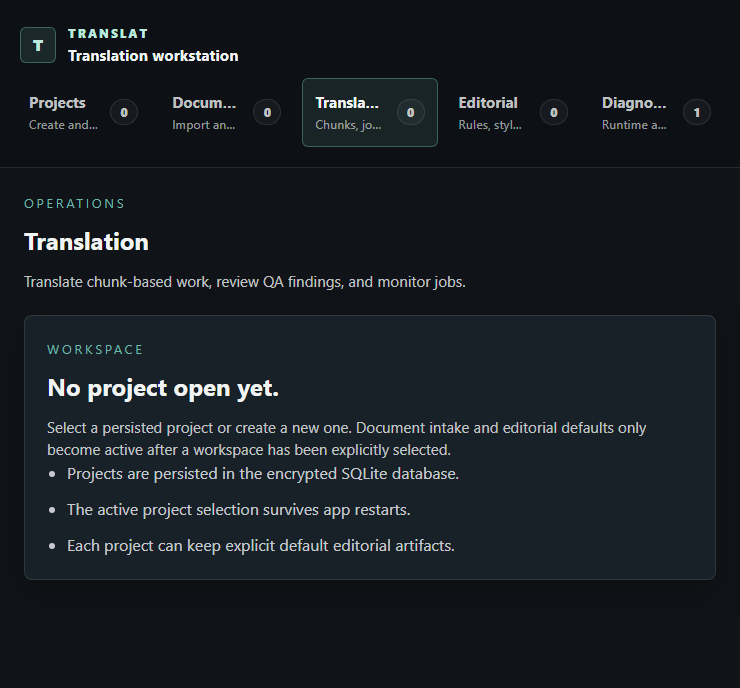
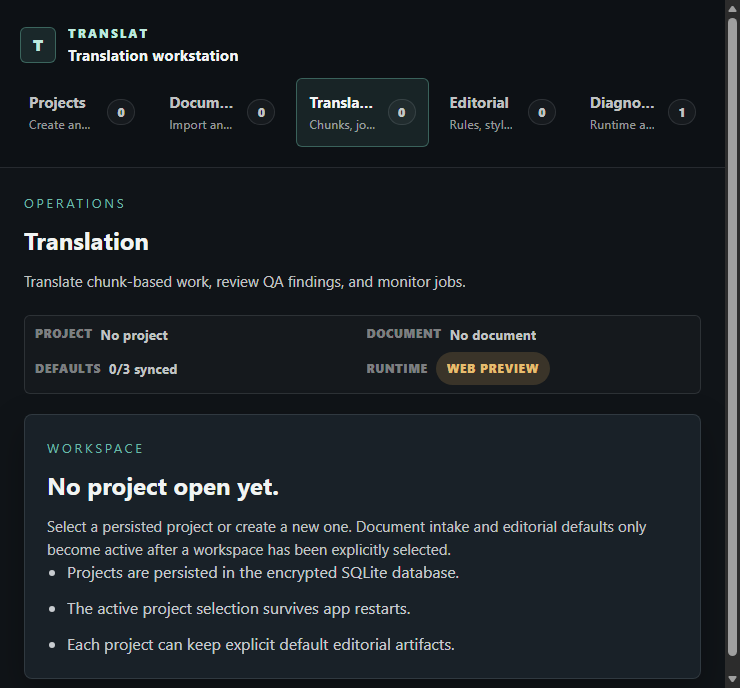
Handle browser runtime unavailable state

diff --git a/src/frontend/app/AppShell.tsx b/src/frontend/app/AppShell.tsx
@@ -17,6 +17,10 @@ import { useProjectDocuments } from "../hooks/useProjectDocuments";
 import { useProjectsWorkspace } from "../hooks/useProjectsWorkspace";
 import { useRuleSetsWorkspace } from "../hooks/useRuleSetsWorkspace";
 import { useStyleProfilesWorkspace } from "../hooks/useStyleProfilesWorkspace";
+import {
+  DESKTOP_RUNTIME_UNAVAILABLE_CODE,
+  isDesktopRuntimeAvailable,
+} from "../lib/desktop";
 
 type BadgeTone = "neutral" | "info" | "success" | "warning" | "danger";
 type ShellView =
@@ -346,6 +350,23 @@ export function AppShell() {
     activeProjectDefaultStyleProfile,
     activeProjectDefaultRuleSet,
   ].filter(Boolean).length;
+  const isDesktopRuntimeUnavailable =
+    !isDesktopRuntimeAvailable() ||
+    healthcheckError?.code === DESKTOP_RUNTIME_UNAVAILABLE_CODE;
+  const runtimeContextTone: BadgeTone = isDesktopRuntimeUnavailable
+    ? "warning"
+    : healthcheck
+      ? "success"
+      : isLoadingHealthcheck
+        ? "info"
+        : "danger";
+  const runtimeContextLabel = isDesktopRuntimeUnavailable
+    ? "Web preview"
+    : healthcheck
+      ? "Desktop ready"
+      : isLoadingHealthcheck
+        ? "Checking"
+        : "Runtime issue";
   const navigationItems: NavigationItem[] = [
     {
       count: projects.length,
@@ -424,6 +445,33 @@ export function AppShell() {
             />
           </div>
 
+          <section
+            aria-label="Workspace context"
+            className="app-shell__operational-strip"
+          >
+            <div>
+              <span>Project</span>
+              <strong>{activeProject?.name ?? "No project"}</strong>
+            </div>
+            <div>
+              <span>Document</span>
+              <strong>{activeDocument?.name ?? "No document"}</strong>
+            </div>
+            <div>
+              <span>Defaults</span>
+              <strong>
+                {activeDefaultsCount}/3
+                {hasUnsavedProjectDefaults ? " unsaved" : " synced"}
+              </strong>
+            </div>
+            <div>
+              <span>Runtime</span>
+              <StatusBadge tone={runtimeContextTone} size="sm">
+                {runtimeContextLabel}
+              </StatusBadge>
+            </div>
+          </section>
+
           <div
             className="app-shell__view app-shell__view--projects"
             hidden={activeView !== "projects"}
@@ -432,6 +480,7 @@ export function AppShell() {
               <ProjectComposer
                 error={projectError}
                 isCreating={isCreating}
+                isRuntimeUnavailable={isDesktopRuntimeUnavailable}
                 onSubmit={handleSubmitProject}
               />
 

diff --git a/src/frontend/components/ProjectComposer.tsx b/src/frontend/components/ProjectComposer.tsx
@@ -7,16 +7,20 @@ import { PanelMessage } from "./ui/PanelMessage";
 interface ProjectComposerProps {
   error: DesktopCommandError | null;
   isCreating: boolean;
+  isRuntimeUnavailable?: boolean;
   onSubmit: (input: { description?: string; name: string }) => Promise<boolean>;
 }
 
 export function ProjectComposer({
   error,
   isCreating,
+  isRuntimeUnavailable = false,
   onSubmit,
 }: ProjectComposerProps) {
   const [description, setDescription] = useState("");
   const [name, setName] = useState("");
+  const isSubmitDisabled = isCreating || isRuntimeUnavailable;
+  const displayedError = isRuntimeUnavailable ? null : error;
 
   async function handleSubmit(event: React.FormEvent<HTMLFormElement>) {
     event.preventDefault();
@@ -73,23 +77,36 @@ export function ProjectComposer({
 
         <div className="project-form__footer">
           <ActionButton
-            disabled={isCreating}
+            disabled={isSubmitDisabled}
             mobileFullWidth
             size="md"
             type="submit"
             variant="primary"
           >
-            {isCreating ? "Creating project..." : "Create project"}
+            {isRuntimeUnavailable
+              ? "Desktop app required"
+              : isCreating
+                ? "Creating project..."
+                : "Create project"}
           </ActionButton>
 
           <span className="project-form__hint">
-            The new project is opened immediately after persistence.
+            {isRuntimeUnavailable
+              ? "Persistence commands run in the desktop app."
+              : "The new project is opened immediately after persistence."}
           </span>
         </div>
 
-        {error ? (
+        {isRuntimeUnavailable ? (
+          <PanelMessage tone="warning" title="Browser preview mode">
+            This preview cannot create persisted projects because the Tauri
+            desktop bridge is not available.
+          </PanelMessage>
+        ) : null}
+
+        {displayedError ? (
           <PanelMessage role="alert" tone="danger">
-            {error.message}
+            {displayedError.message}
           </PanelMessage>
         ) : null}
       </form>

diff --git a/src/frontend/styles.css b/src/frontend/styles.css
@@ -309,6 +309,40 @@ select {
   padding-bottom: 2px;
 }
 
+.app-shell__operational-strip {
+  display: grid;
+  grid-template-columns: repeat(4, minmax(0, 1fr));
+  gap: 8px;
+  padding: 8px 10px;
+  border: 1px solid var(--color-border-default);
+  border-radius: var(--radius-md);
+  background: rgba(255, 255, 255, 0.025);
+}
+
+.app-shell__operational-strip div {
+  display: flex;
+  min-width: 0;
+  gap: 8px;
+  align-items: center;
+}
+
+.app-shell__operational-strip span {
+  flex: 0 0 auto;
+  color: var(--color-text-subtle);
+  font-size: 0.72rem;
+  font-weight: 800;
+  letter-spacing: 0.08em;
+  text-transform: uppercase;
+}
+
+.app-shell__operational-strip strong {
+  overflow: hidden;
+  color: var(--color-text-secondary);
+  font-size: 0.84rem;
+  text-overflow: ellipsis;
+  white-space: nowrap;
+}
+
 .app-shell__view {
   display: grid;
   gap: 20px;
@@ -1600,14 +1634,27 @@ select {
   .app-shell__metric-grid {
     grid-template-columns: repeat(2, minmax(0, 1fr));
   }
+
+  .app-shell__operational-strip {
+    grid-template-columns: repeat(2, minmax(0, 1fr));
+  }
 }
 
 @media (max-width: 640px) {
+  .app-shell,
+  .app-shell__nav,
+  .app-shell__main,
+  .app-shell__content {
+    max-width: 100vw;
+    overflow-x: hidden;
+  }
+
   .app-shell__nav {
     padding: 16px 12px;
   }
 
   .app-shell__nav-list,
+  .app-shell__operational-strip,
   .app-shell__metric-grid {
     grid-template-columns: 1fr;
   }
@@ -1617,8 +1664,8 @@ select {
   }
 
   .app-shell__content {
+    width: 100%;
     margin: 0;
-    max-width: 390px;
   }
 
   .surface-card {
@@ -1648,7 +1695,13 @@ select {
 
   .app-shell__view-header .panel-header__copy,
   .app-shell__view-header .panel-header__description {
-    max-width: calc(100vw - 32px);
+    width: 100%;
+    max-width: 100%;
+    white-space: normal;
+  }
+
+  .app-shell__operational-strip div {
+    flex-wrap: wrap;
   }
 
   .panel-header__aside,

diff --git a/src/frontend/lib/desktop.ts b/src/frontend/lib/desktop.ts
@@ -87,6 +87,25 @@ export class DesktopCommandError extends Error {
   }
 }
 
+export const DESKTOP_RUNTIME_UNAVAILABLE_CODE = "DESKTOP_RUNTIME_UNAVAILABLE";
+
+declare global {
+  interface Window {
+    __TAURI__?: {
+      core?: {
+        invoke?: unknown;
+      };
+    };
+  }
+}
+
+export function isDesktopRuntimeAvailable() {
+  return (
+    typeof window !== "undefined" &&
+    typeof window.__TAURI__?.core?.invoke === "function"
+  );
+}
+
 function isDesktopCommandErrorPayload(
   value: unknown,
 ): value is DesktopCommandErrorPayload {
@@ -127,6 +146,14 @@ export async function invokeDesktopCommand<TResponse>(
   command: DesktopCommandName,
   args?: Record<string, unknown>,
 ) {
+  if (!isDesktopRuntimeAvailable()) {
+    throw new DesktopCommandError(command, {
+      code: DESKTOP_RUNTIME_UNAVAILABLE_CODE,
+      message:
+        "Desktop runtime unavailable in this browser preview. Open the Tauri desktop app to use persisted project and document commands.",
+    });
+  }
+
   try {
     return await invoke<TResponse>(command, args);
   } catch (caughtError) {

diff --git a/docs/product/TR-34-visual-validation.md b/docs/product/TR-34-visual-validation.md
@@ -12,6 +12,7 @@ Validation date: 2026-04-21.
 - Desktop capture: `docs/product/assets/TR-34/browser-desktop.png`
 - Intermediate responsive Documents capture: `docs/product/assets/TR-34/browser-tablet.png`
 - Intermediate responsive Translation capture: `docs/product/assets/TR-34/browser-tablet-translation.png`
+- Wide phone capture: `docs/product/assets/TR-34/browser-phone-wide.png`
 - Mobile capture: `docs/product/assets/TR-34/browser-mobile.png`
 - Browser mode: Vite web preview, with Tauri command bridge unavailable.
 
@@ -20,6 +21,8 @@ Validation date: 2026-04-21.
 ![TR-34 browser intermediate responsive](assets/TR-34/browser-tablet.png)
 
 ![TR-34 browser intermediate responsive translation](assets/TR-34/browser-tablet-translation.png)
+
+![TR-34 browser wide phone](assets/TR-34/browser-phone-wide.png)
 
 ![TR-34 browser mobile](assets/TR-34/browser-mobile.png)
 
@@ -34,10 +37,10 @@ Validation date: 2026-04-21.
 | `npm run build` | Blocked | `tauri build` panics in `tauri-cli` at `crates\tauri-cli\src\interface\rust.rs:1149:14` after the same toolchain issue. |
 
 ## Browser Runtime Findings
-The browser preview renders the redesigned shell without a blank screen at desktop and mobile sizes. Because this is a web preview, desktop commands fail without the Tauri bridge; the first screen still surfaces a raw command failure inside the project form area. That is a browser-runtime limitation already visible in TR-29 and not evidence of the native command path.
+The browser preview renders the redesigned shell without a blank screen at desktop and mobile sizes. Because this is a web preview, desktop commands cannot run without the Tauri bridge; persistence actions are disabled and surfaced as explicit browser-preview runtime states rather than raw command failures.
 
 Desktop viewport:
-- Left navigation, project composer, and active workspace overview are visible in the first viewport.
+- Left navigation, compact operational context, project composer, and active workspace overview are visible in the first viewport.
 - Primary hierarchy is readable: `Projects` route, project creation, active workspace summary.
 - No obvious text overlap in the captured viewport.
 - The page scrolls vertically; lower form error content is partly below the first viewport.
@@ -47,6 +50,10 @@ Mobile viewport:
 - Brand, nav entries, view title, and project creation flow remain readable.
 - No obvious horizontal clipping in the captured viewport.
 - The content requires vertical scrolling, which is expected for the current shell structure.
+
+Wide phone viewport:
+- The shell content uses the full available 400-449px range instead of clamping to a narrow fixed column.
+- Compact operational context keeps runtime availability visible in the primary shell.
 
 Intermediate responsive viewport:
 - Documents and Translation navigation use a compact horizontal row without an elastic empty area below the tabs.
@@ -73,21 +80,20 @@ Intermediate responsive viewport:
 ## Accessibility And Layout Review
 - The shell uses real buttons for navigation, project actions, document rows, chunk rows, and job/QA actions.
 - Disabled operational states are explicit for non-segmented documents, missing chunks, inactive jobs, and unavailable export.
+- Browser preview disables persistence commands when the Tauri desktop bridge is unavailable and shows a clear runtime message.
 - Semantic status colors are restrained and consistent with TR-31 roles: info for progress, success for ready/completed, warning for blocked/incomplete, danger for incidents.
-- Dense workstation layout is preserved on desktop through left navigation and the three-zone Translation Workspace.
+- Dense workstation layout is preserved on desktop through left navigation, compact operational context, and the three-zone Translation Workspace.
 - Mobile layout stacks major regions and avoids horizontal overflow in the captured state.
 
 ## Residual Risks
 - Browser-only validation cannot exercise persisted projects, imports, segmentation, jobs, QA, or export end to end until the Tauri desktop toolchain is repaired.
 - No automated visual regression suite exists for the Release 08 shell or Translation Workspace states.
 - Representative operational states were validated by component/code review rather than seeded runtime data.
-- The browser preview still exposes raw Tauri-bridge command failures in web mode.
 
 ## Follow-ups
 1. Repair the local Rust/Tauri toolchain so `check:desktop`, `tauri dev`, and `tauri build` can validate native command behavior.
 2. Add a lightweight visual-state harness or mocked Tauri adapter for browser validation of seeded project/document/chunk/job/QA/export states.
 3. Add Playwright or equivalent visual smoke tests once the harness exists.
-4. Replace raw browser-only Tauri bridge failures with a clearer web-preview runtime message.
 
 ## Release 08 Decision
-Release 08 visual validation is sufficient for the current repository phase, with the explicit limitation that native Tauri runtime validation remains blocked by the local toolchain. The redesigned UI has no obvious first-viewport overlap in browser desktop/mobile captures, and the code paths preserve the required document, chunk, job, QA, and export state hierarchy.
+Release 08 visual validation is sufficient for the current repository phase, with the explicit limitation that native Tauri runtime validation remains blocked by the local toolchain. The redesigned UI has no obvious first-viewport overlap in browser desktop/mobile captures, browser-only persistence actions fail closed with a clear runtime state, and the code paths preserve the required document, chunk, job, QA, and export state hierarchy.
